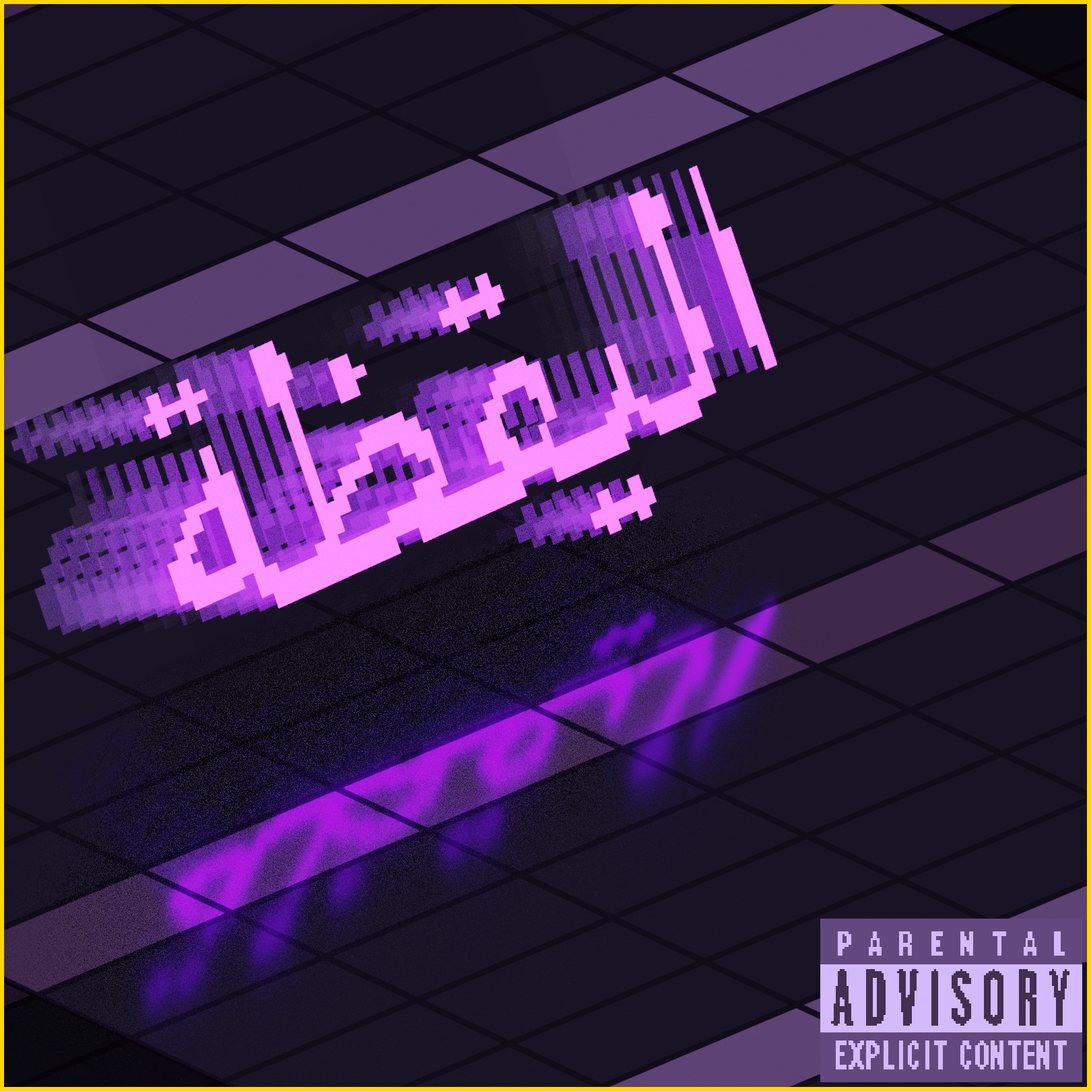
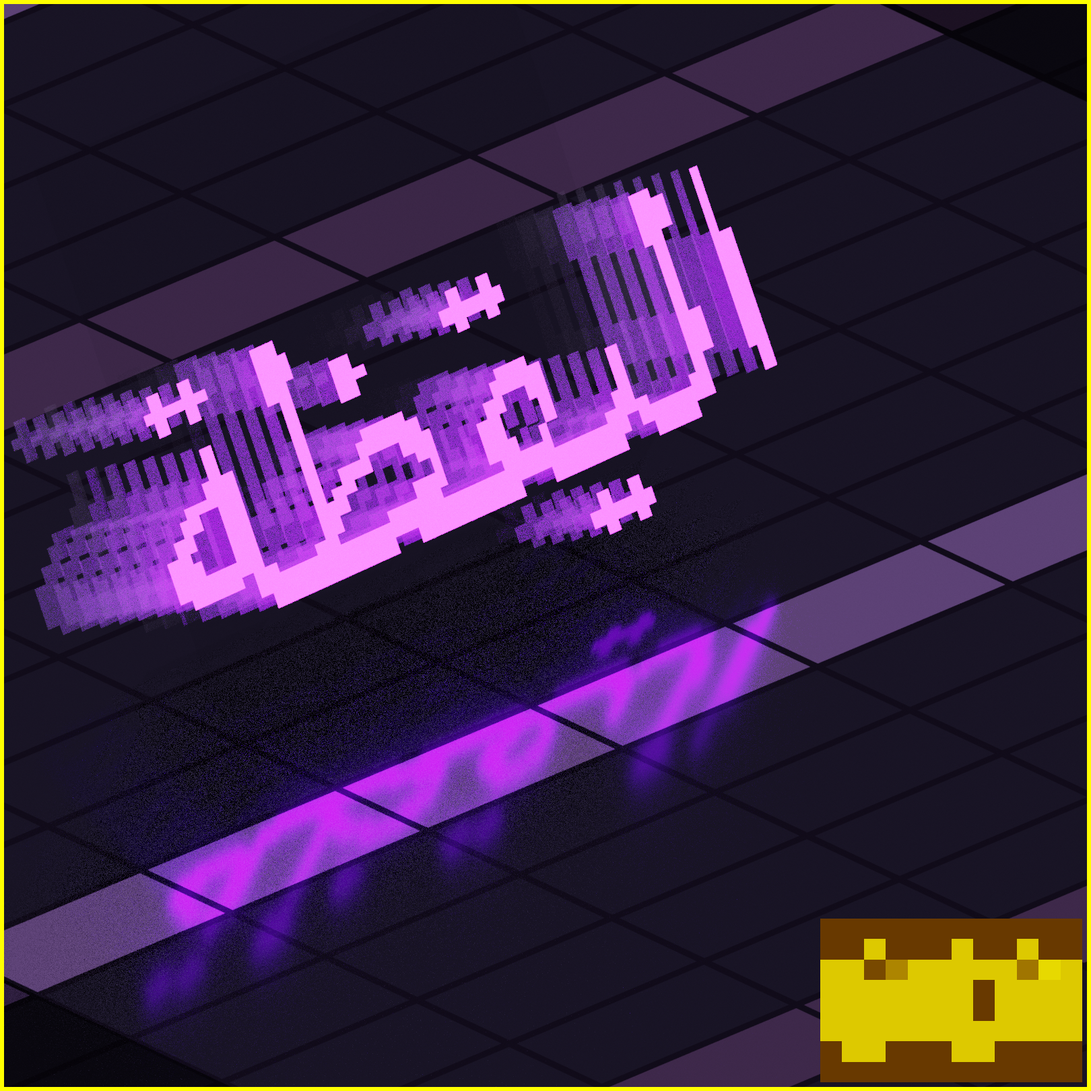
minor alaikaza cover fixes

Changed region(s): [[0.0, 0.0, 1.0, 1.0]]

diff --git a/smartlinks/todx-s0c1e7.html b/smartlinks/todx-s0c1e7.html
@@ -1,0 +1,97 @@
+<!DOCTYPE html>
+<html><head>
+	<meta http-equiv="content-type" content="text/html; charset=UTF-8">
+    <meta charset="UTF-8">
+    <meta name="viewport" content="width=device-width, initial-scale=1.0">
+    <link href="smartlinks-style.css" rel="stylesheet" type="text/css" media="all">
+	<link rel="icon" type="image/x-icon" href="https://kubebow.github.io/favicon.ico">
+    <title>Smartlink</title>
+    <meta content="website" property="og:type" />
+    <meta content="#BF00BF" data-react-helmet="true" name="theme-color" />
+	<meta name="p:domain_verify" content="e8176958c4a704bcd26dbbde5538af4a"/>
+	</head>
+<body style="background-image: url('../assets0/bg.jpg');">
+	<div id="face" style="
+	display: block;
+	border-style: none;
+	">
+		<img id="cover" alt="Cover art" style="
+			width:50%;
+			color:black;
+			max-width: 200px;
+			">
+		<h2 id="title"></h2>
+		<strong id="flavor"></strong>
+		<p id="labelid"></p>
+		<div id="headDiv">
+			<div id="buttonDiv" style="
+			text-align:center;
+			width:100%;
+			">
+				<!-- YOUTUBE (FULL) --><a id="youtube_fl" class="button F-hemi H-hemi"><div class="buttonInnerDiv"><img class="buttonIcon"><span>YouTube (Full Video)</span><img class="buttonIcon"></div></a>
+				<!-- BITVIEW (FULL) --><a id="bitview_fl" class="button F-hemi H-hemi"><div class="buttonInnerDiv"><img class="buttonIcon"><span>BitView (Full Video)</span><img class="buttonIcon"></div></a>
+				<!-- YOUTUBE (SEPERATED) --><a id="youtube_sp" class="button F-hemi H-hemi"><div class="buttonInnerDiv"><img class="buttonIcon"><span>YouTube (Playlist)</span><img class="buttonIcon"></div></a>
+				<!-- BITVIEW (SEPERATED) --><a id="bitview_sp" class="button F-hemi H-hemi"><div class="buttonInnerDiv"><img class="buttonIcon"><span>BitView (Playlist)</span><img class="buttonIcon"></div></a>
+				<!-- BANDCAMP (OPTION1) --><a id="bandcamp_opt" class="button F-hemi H-hemi"><div class="buttonInnerDiv"><img class="buttonIcon"><span>Bandcamp (Option1)</span><img class="buttonIcon"></div></a>
+				<!-- BANDCAMP (SQUARE1) --><a id="bandcamp_sq1" class="button F-hemi H-hemi"><div class="buttonInnerDiv"><img class="buttonIcon"><span>Bandcamp (Square1)</span><img class="buttonIcon"></div></a>
+				<!-- SOUNDCLOUD --><a id="soundcloud" class="button F-hemi H-hemi"><div class="buttonInnerDiv"><img class="buttonIcon"><span>SoundCloud</span><img class="buttonIcon"></div></a>
+				<!-- ITCH.IO --><a id="itch" class="button F-hemi H-hemi"><div class="buttonInnerDiv"><img class="buttonIcon"><span>Itch.io</span><img class="buttonIcon"></div></a>
+				<!-- ARCHIVE.ORG --><a id="archiveOrg" class="button F-hemi H-hemi"><div class="buttonInnerDiv"><img class="buttonIcon"><span>Archive.org</span><img class="buttonIcon"></div></a>
+				<!-- SMARTLINK --><a id="ffm" class="button F-hemi H-hemi"><div class="buttonInnerDiv"><img class="buttonIcon"><span>Streaming Services*</span><img class="buttonIcon"></div></a>
+				<!-- RELATED -->
+				<a id="rellnk" class="button F-hemi H-hemi"><div class="buttonInnerDiv"><img class="buttonIcon"><span id="rellab"></span><img class="buttonIcon"></div></a>
+				<a id="rellnkb" class="button F-hemi H-hemi"><div class="buttonInnerDiv"><img class="buttonIcon"><span id="rellabb"></span><img class="buttonIcon"></div></a>
+			</div>
+		</div>
+		<p>(* Please note that Streaming Services often have alterations to releases, ESPECIALLY titles.)</p>
+		<a href="https://kubebow.github.io">Our Homepage</a>
+	</div>
+<script>
+	// METADATA
+	var title        = "Cartesian (Complete)";
+	var cover        = "../discog/todx-s0c1e7.png";
+	var labelid      = "[([ todx-s0c1e7 ])]";
+	var flavor       = "🕓 COMING SOON 🕖";
+	var rellab       = "ALBUM: Cartesian Horizontal (LS)";
+	var rellabb      = "ALBUM: Cartesian Vertical (LS)";
+	// LINKS
+	var youtube_fl   = ""; // single video, album upload
+	var youtube_sp   = "https://www.youtube.com/playlist?list=PLXFwjjMXgDZGNttYHnYke7PrAJmatN8eY"; // multiple videos in playlist, single uploads
+	var bitview_fl   = "";
+	var bitview_sp   = "";
+	var bandcamp_opt = "";
+	var bandcamp_sq1 = "https://kubebow.bandcamp.com/album/cartesian-ongoing";
+	var soundcloud   = "";
+	var itch         = "";
+	var archiveOrg   = "";
+	var ffm          = "";
+	var rellnk       = "zout-s0c1e7.html";
+	var rellnkb      = "toma-s0c1e7.html";
+	// SITE
+	var bg         = "url('../assets0/bg.jpg')";
+	//
+	//
+	//
+	// Plug links in
+	const buttons = ["youtube_fl","youtube_sp","bitview_fl","bitview_sp","bandcamp_opt","bandcamp_sq1","soundcloud","itch","archiveOrg","ffm","rellnk","rellnkb"];
+	for (const element of buttons) {
+		if (window[element] == "") {document.getElementById(element).remove()}
+		else {document.getElementById(element).href=window[element];}
+	}
+	// Plug meta in
+	const meta = ["title","labelid","flavor","rellab","rellabb"];
+	for (const element of meta) {
+		document.getElementById(element).innerHTML+=window[element];
+	}
+	// Plug more in
+	document.getElementById("cover").src=cover; // COVER
+	document.body.style.backgroundImage=bg; // BG
+	// If user clicks an image, redirect them to the image's url
+	var imgs = document.getElementsByTagName("img");
+	for (var i = 0; i < imgs.length; i++) {
+		imgs[i].addEventListener('click', function() {
+			document.location = this.src;
+		});
+	};
+</script>
+</body></html>

diff --git a/smartlinks/zout-s0c1e7.html b/smartlinks/zout-s0c1e7.html
@@ -40,6 +40,7 @@
 				<a id="rellnkb" class="button F-hemi H-hemi"><div class="buttonInnerDiv"><img class="buttonIcon"><span id="rellabb"></span><img class="buttonIcon"></div></a>
 				<a id="rellnk" class="button F-hemi H-hemi"><div class="buttonInnerDiv"><img class="buttonIcon"><span id="rellab"></span><img class="buttonIcon"></div></a>
 				<a id="rellnkc" class="button F-hemi H-hemi"><div class="buttonInnerDiv"><img class="buttonIcon"><span id="rellabc"></span><img class="buttonIcon"></div></a>
+				<a id="rellnkd" class="button F-hemi H-hemi"><div class="buttonInnerDiv"><img class="buttonIcon"><span id="rellabd"></span><img class="buttonIcon"></div></a>
 			</div>
 		</div>
 		<p>(* Please note that Streaming Services often have alterations to releases, ESPECIALLY titles.)</p>
@@ -48,12 +49,13 @@
 <script>
 	// METADATA
 	var title        = "Cartesian Horizontal (LS)";
-	var cover        = "../icon/ph.png"; // "../discog/zout-s0c1e7p1.png"
+	var cover        = "../discog/zout-s0c1e7.png";
 	var labelid      = "[([ zout-s0c1e7 ])]";
 	var flavor       = "🕓 COMING SOON 🕖";
 	var rellab       = "RELATED SINGLE: New KubeBow (4/7 Version)";
 	var rellabb      = "TEASER: Arpy 7s (Bonus Track)";
-	var rellabc      = "RELATED: Cartesian Vertical";
+	var rellabc      = "SIBLING: Cartesian Vertical";
+	var rellabd      = "PAIR COMP: Cartesian (Complete)";
 	// LINKS
 	var youtube_fl   = ""; // single video, album upload
 	var youtube_sp   = ""; // multiple videos in playlist, single uploads
@@ -63,22 +65,23 @@
 	var itch         = "";
 	var archiveOrg   = "";
 	var ffm          = "";
-	var rellnk       = "https://kubebow.github.io/smartlinks/tosp-s0c1e7.html";
+	var rellnk       = "tosp-s0c1e7.html";
 	var rellnkb      = "https://www.youtube.com/watch?v=gEQaRud5SZI&list=PLXFwjjMXgDZGNttYHnYke7PrAJmatN8eY&index=1";
 	var rellnkc      = "toma-s0c1e7.html";
+	var rellnkd      = "todx-s0c1e7.html";
 	// SITE
 	var bg         = "url('../assets0/bg.jpg')";
 	//
 	//
 	//
 	// Plug links in
-	const buttons = ["youtube_fl","youtube_sp","bandcamp_opt","bandcamp_sq1","soundcloud","itch","archiveOrg","ffm","rellnk","rellnkb","rellnkc"];
+	const buttons = ["youtube_fl","youtube_sp","bandcamp_opt","bandcamp_sq1","soundcloud","itch","archiveOrg","ffm","rellnk","rellnkb","rellnkc","rellnkd"];
 	for (const element of buttons) {
 		if (window[element] == "") {document.getElementById(element).remove()}
 		else {document.getElementById(element).href=window[element];}
 	}
 	// Plug meta in
-	const meta = ["title","labelid","flavor","rellab","rellabb","rellabc"];
+	const meta = ["title","labelid","flavor","rellab","rellabb","rellabc","rellabd"];
 	for (const element of meta) {
 		document.getElementById(element).innerHTML+=window[element];
 	}

diff --git a/smartlinks/toma-s0c1e7.html b/smartlinks/toma-s0c1e7.html
@@ -39,6 +39,7 @@
 				<!-- RELATED -->
 				<a id="rellnk" class="button F-hemi H-hemi"><div class="buttonInnerDiv"><img class="buttonIcon"><span id="rellab"></span><img class="buttonIcon"></div></a>
 				<a id="rellnkb" class="button F-hemi H-hemi"><div class="buttonInnerDiv"><img class="buttonIcon"><span id="rellabb"></span><img class="buttonIcon"></div></a>
+				<a id="rellnkc" class="button F-hemi H-hemi"><div class="buttonInnerDiv"><img class="buttonIcon"><span id="rellabc"></span><img class="buttonIcon"></div></a>
 			</div>
 		</div>
 		<p>(* Please note that Streaming Services often have alterations to releases, ESPECIALLY titles.)</p>
@@ -47,11 +48,12 @@
 <script>
 	// METADATA
 	var title        = "Cartesian Vertical (LS)";
-	var cover        = "../icon/ph.png"; // "../discog/toma-s0c1e7p1.png"
+	var cover        = "../discog/toma-s0c1e7.png";
 	var labelid      = "[([ toma-s0c1e7 ])]";
 	var flavor       = "🕓 COMING SOON 🕖";
 	var rellab       = "SINGLE: New KubeBow (4/7 Version)";
-	var rellabb      = "RELATED: Cartesian Horizontal";
+	var rellabb      = "SIBLING: Cartesian Horizontal";
+	var rellabc      = "PAIR COMP: Cartesian (Complete)";
 	// LINKS
 	var youtube_fl   = ""; // single video, album upload
 	var youtube_sp   = ""; // multiple videos in playlist, single uploads
@@ -61,21 +63,22 @@
 	var itch         = "";
 	var archiveOrg   = "";
 	var ffm          = "";
-	var rellnk       = "https://kubebow.github.io/smartlinks/tosp-s0c1e7.html";
+	var rellnk       = "tosp-s0c1e7.html";
 	var rellnkb      = "zout-s0c1e7.html";
+	var rellnkc      = "todx-s0c1e7.html";
 	// SITE
 	var bg         = "url('../assets0/bg.jpg')";
 	//
 	//
 	//
 	// Plug links in
-	const buttons = ["youtube_fl","youtube_sp","bandcamp_opt","bandcamp_sq1","soundcloud","itch","archiveOrg","ffm","rellnk","rellnkb"];
+	const buttons = ["youtube_fl","youtube_sp","bandcamp_opt","bandcamp_sq1","soundcloud","itch","archiveOrg","ffm","rellnk","rellnkb","rellnkc"];
 	for (const element of buttons) {
 		if (window[element] == "") {document.getElementById(element).remove()}
 		else {document.getElementById(element).href=window[element];}
 	}
 	// Plug meta in
-	const meta = ["title","labelid","flavor","rellab","rellabb"];
+	const meta = ["title","labelid","flavor","rellab","rellabb","rellabc"];
 	for (const element of meta) {
 		document.getElementById(element).innerHTML+=window[element];
 	}
